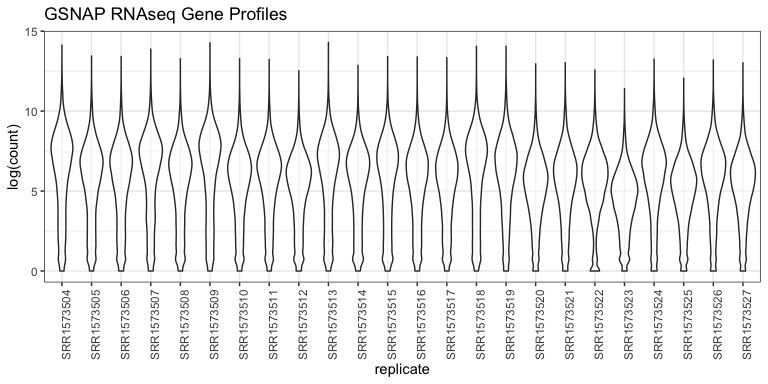
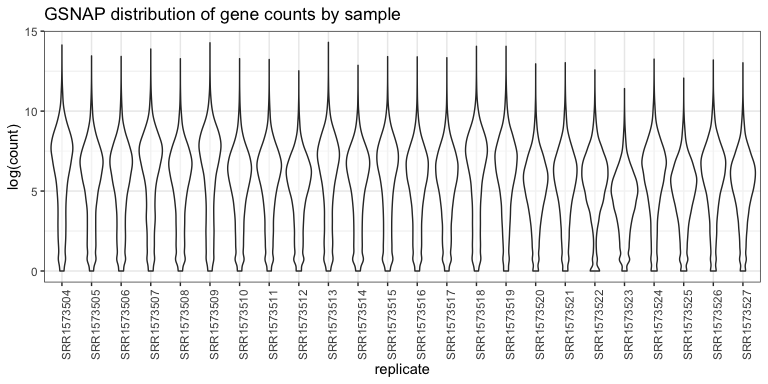
draft merging Hisat notes with Siva

Changed region(s): [[0.125, 0.0, 0.5312, 0.0625]]

diff --git a/Notebook_Jennifer/1_align_hisat2.md b/Notebook_Jennifer/1_align_hisat2.md
@@ -1,8 +1,30 @@
 # Hisat2 - alignment
 
-HiSat2 alignment followed by Stringtie/Ballgown. This is definitely not done! Writing up notes before I start running commands.
+Authors: Siva & Jennifer
 
-## Install HiSat2
+Log onto Nova HPC and check if the following programs are installed
+
+* <b>fastqc</b> - to quality check the fastq files
+* <b>multiqc</b> - to merge the fastqc reports into one html
+* <b>HISAT2</b> - for alignment
+* <b>parallel</b> - to run some of the above commands in parallel
+
+## Check Nova HPC Modules
+
+The usual way to check if a program is installed is using:
+
+```
+(module avail) &> module_list.txt        # <= List all modules
+grep -i hisat module_list.txt            # <= pull out any modules with hisat in the name
+```
+
+The following will be in our slurm scripts:
+
+```
+module load hisat
+```
+
+<details><summary>Install HiSat2 - for Atlas later, not done</summary>
 
 Visit the HISAT2 download page, fetch the linux version.
 
@@ -15,6 +37,102 @@ scp ~/Downloads/hisat2-2.2.1-Linux_x86_64.zip atlas:inbox/.
 ```
 
 Heh, maybe I should add a discussion of `~/.ssh/config` files. It shortens the HPC address, easier to navigate to.
+
+</details>
+
+## Datasets
+
+Andrew and Siva loaded the datafiles onto Nova in the following location.
+
+```
+/work/gif/TranscriptomicsWorkshop/
+   |_ bumbleBee/
+      |_ 01_Genome/
+      |  |_ GCF_000188095.3_BIMP_2.2_feature_count.txt.gz
+      |  |_ GCF_000188095.3_BIMP_2.2_genomic.fna
+      |  |_ GCF_000188095.3_BIMP_2.2_genomic.gff.gz
+      |
+      |_ 1-A01-A1_S7_L002_R1_001.fastq.gz
+      |_ ... rest of reads
+      
+   |_ Maize/
+      |_ 01_Genome/
+      |   |_ GCF_902167145.1_Zm-B73-REFERENCE-NAM-5.0_genomic.fna
+      |   |_ GCF_902167145.1_Zm-B73-REFERENCE-NAM-5.0_genomic.gff
+      |
+      |_ SRR1573504_1.fastq
+      |_ SRR1573504_2.fastq
+      |_ ... rest of paired reads
+```
+
+# 01) Quality Check
+
+Following the commandßs from Siva's Notebook, run `fastqc` and `multiqc` to quality check the input fastq files.
+
+```
+# === Modules
+module load fastqc/0.11.7-3flwcvl
+module load py-multiqc/1.5-py2-lqqx3ht
+#module load singularity/3.5.2-py2-ewuuq5o
+
+# === Input / Output
+INDIR=Maize
+OUTDIR=01_QC
+
+# === Main Program
+parallel -j32 "fastqc -o ${OUTDIR}" ::: ${INDIR}/*.fastq
+cd 01_QC
+multiqc
+
+#singularity exec --bind $PWD /work/gif/Siva/multiqc_latest.sif multiqc.
+```
+
+
+
+# 1) Hisat2 Index the reference genomes
+
+Following the commnds from Siva's Notebook. 
+
+```
+# === Modules
+module load hisat2/2.2.0-5kvb7f2
+
+# === Input / Output variables
+REF_FILE=Zm_B73-REFERENCE_Nam.5.0.fa
+REF_NAME=b73
+LOGFILE=v5_build.log
+
+# === Main Program
+
+hisat2-build -p 18 \
+  ${REF_FILE} \
+  ${REF_NAME} \
+  >& ${LOGFILE}
+```
+
+# 2) Hisat2 Map the reads
+
+Following the commands from Siva's Notebook.
+
+```
+hisat2 -p 8 \
+  -x ${REF_NAME} \
+  -1 ${READ_R1} \
+  -2 ${READ_R2} \
+  -S ${READ_NAME}.sam \
+  2> ${READ_NAME}.log
+  
+samtools view \
+  --threads 8 \
+  -bS \
+  -o ${READ_NAME}.bam
+
+```
+
+Following commands in Siva's Notebook.
+
+HiSat2 alignment followed by Stringtie/Ballgown. This is definitely not done! Writing up notes before I start running commands.
+
 
 ## Maize
 

diff --git a/Notebook_Jennifer/2_DE_analysis.md b/Notebook_Jennifer/2_DE_analysis.md
@@ -94,6 +94,11 @@ data_bee <- read_delim("bee_genecounts.txt", delim="\t")
 
 # Diagnostic plots
 
+These are quick plots to look at the data and notice if any of the
+counts seem unusally high or low, or multimodal. It can indicate a
+problem with a sample, but does not necessarily mean there is a problem
+with a sample.
+
 ## Bee
 
 ``` r
@@ -125,7 +130,7 @@ melt_bee %>%
   theme(
     axis.text.x = element_text(angle=90)
   ) +
-  labs(title="GSNAP RNAseq Gene Profiles") +
+  labs(title="GSNAP distribution of gene counts by sample") +
   facet_wrap(~group, scales="free", drop=T)
 #> Warning: Removed 216873 rows containing non-finite values (stat_ydensity).
 ```
@@ -162,7 +167,7 @@ melt_maize %>%
   theme(
     axis.text.x = element_text(angle=90)
   ) +
-  labs(title="GSNAP RNAseq Gene Profiles")
+  labs(title="GSNAP distribution of gene counts by sample")
 #> Warning: Removed 473515 rows containing non-finite values (stat_ydensity).
 ```
 
@@ -175,3 +180,9 @@ melt_maize %>%
 Check if any of the replicates seem obviously different from the others.
 Mostly seems okay, `SRR1573509` and `SRR1573523` is a little low
 compared to others, `SRR1573513` seems a little high compared to others.
+
+## DESEQ2
+
+    library(DESeq2)
+
+STAR count
